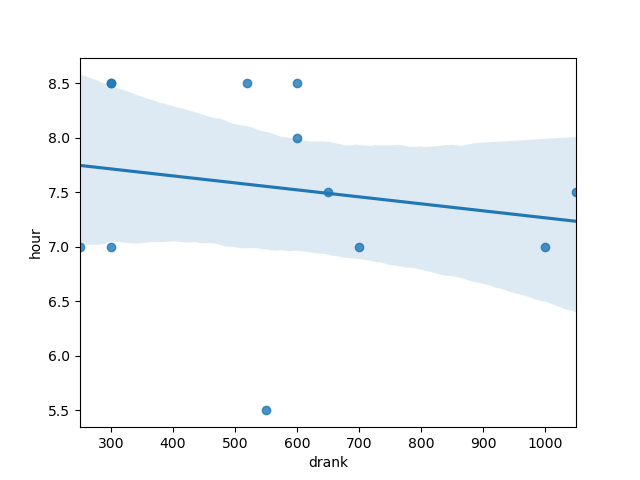
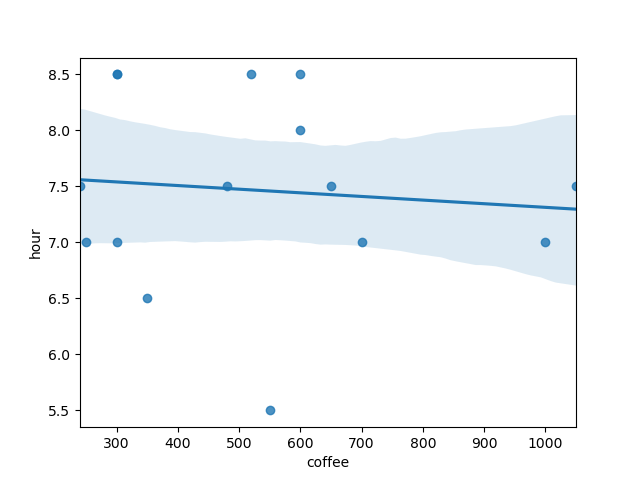
2020/04/17まで追加、ビールの摂取量と散布図行列を追加

diff --git a/makeFig.js b/makeFig.js
@@ -173,6 +173,9 @@ function readFirstOnly() {
                 "2020/04/12",
                 "2020/04/13",
                 "2020/04/14",
+                "2020/04/15",
+                "2020/04/16",
+                "2020/04/17",
             ],
             datasets: [
                 {
@@ -345,6 +348,9 @@ function readFirstOnly() {
                         8.5,
                         7.5,
                         7.5,
+                        7.5,
+                        6.5,
+                        8.0,
                     ],
                     // pointRadius:8,
                     // pointBorderWidth:4,
@@ -518,6 +524,9 @@ function readFirstOnly() {
                         3.00,
                         5.20,
                         10.50,
+                        4.80,
+                        2.40,
+                        3.50,
                         ,
                     ],
                     borderDash: [8, 2],

diff --git a/index.html b/index.html
@@ -15,6 +15,6 @@
   <body onload="readFirstOnly()">
 その日の睡眠時間と<b>前日の</b>カフェイン飲料摂取量<br><img src='line.png'><br>
     <canvas id="myLineChart"></canvas>
-<img src='reg.png'><br><img src='bar.png'><br><img src='box.png'>
+<img src='reg.png'><br><img src='bar.png'><br><img src='box.png'><br><img src='pair.png'>
   </body>
 </html>

diff --git a/makeFig.py b/makeFig.py
@@ -48,13 +48,13 @@ anlyDf=pd.DataFrame({
     ]),
   "type":np.concatenate([
       np.tile("Sleep(hour)",len(csvData.hour[153:])),
-      (np.tile("Tea/Coffe(100ml)",len(csvData.drank[153:]))),
+      (np.tile("Tea/Coffe(100ml)",len(csvData.coffee[153:]))),
       ["Tea/Coffe(100ml)"], # 飲み物の日付が一日後ろにずれるので行列の大きさを調整する
     ]),
   "data":np.concatenate([
       csvData.hour[153:],
       [0], # この0mlを挿入することで飲み物の日付を翌日の睡眠時間と合わせる
-      csvData.drank[153:]/100,# 睡眠時間と有効桁数を合わせるために100ml単位にする
+      csvData.coffee[153:]/100,# 睡眠時間と有効桁数を合わせるために100ml単位にする
     ]),
   })  
 print(anlyDf)
@@ -67,7 +67,7 @@ fig.set_xticklabels(anlyDf.day, rotation="90")
 
 # 凡例、タイトル
 plt.legend()
-plt.title("Sleep time (hour) with drank Tea or Caffee (100ml) intake the day before")  
+plt.title("Sleep time (hour) with coffee Tea or coffee (100ml) intake the day before")  
 
 # 画像の保存と画像データのリフレッシュ
 plt.savefig("line.png")
@@ -87,10 +87,16 @@ plt.savefig("box.png")
 plt.clf()
 
 # 散布図と回帰分析(信頼区間95%)プロット
-fig = sns.regplot(x="drank", y="hour", data=csvData, ci=95)
-
+fig = sns.regplot(x="coffee", y="hour", data=csvData[153:], ci=95)
 # 画像の保存と画像データのリフレッシュ
 plt.savefig("reg.png")
+plt.clf()
+
+
+# 散布図行列プロット
+fig = sns.pairplot(data=csvData,hue="WoD",hue_order=['Sun.','Mon.','Tue.','Wed.','Thu.','Fri.','Sat.'])
+# 画像の保存と画像データのリフレッシュ
+plt.savefig("pair.png")
 plt.clf()
 
 
@@ -106,4 +112,6 @@ with open("index.html", mode="w", encoding="utf_8") as fileObj:
   fileObj.write("<img src='bar.png'>")
   fileObj.write("<br>")
   fileObj.write("<img src='box.png'>")
+  fileObj.write("<br>")
+  fileObj.write("<img src='pair.png'>")
   fileObj.write(html_footer)

diff --git a/README.md b/README.md
@@ -33,7 +33,7 @@ data.csvのデータ構造（例）
 
 |No.|日付|睡眠時間|摂取量(ml)|備考|
 |:--|:--|:--|:--|:--|
-|1|`day`|`hour`|`drank`|この行は変更不可。|
+|1|`day`|`hour`|`coffee`|この行は変更不可。|
 |2|2020.04.01 |7.5|800|睡眠時間と摂取量の日付は起床した(摂取した)日付を記入し、|
 |3|2020.04.02 |5.5|300|摂取摂取量は`ml`単位で記入する。|
 |4|2020.04.03 |8.5|300||
